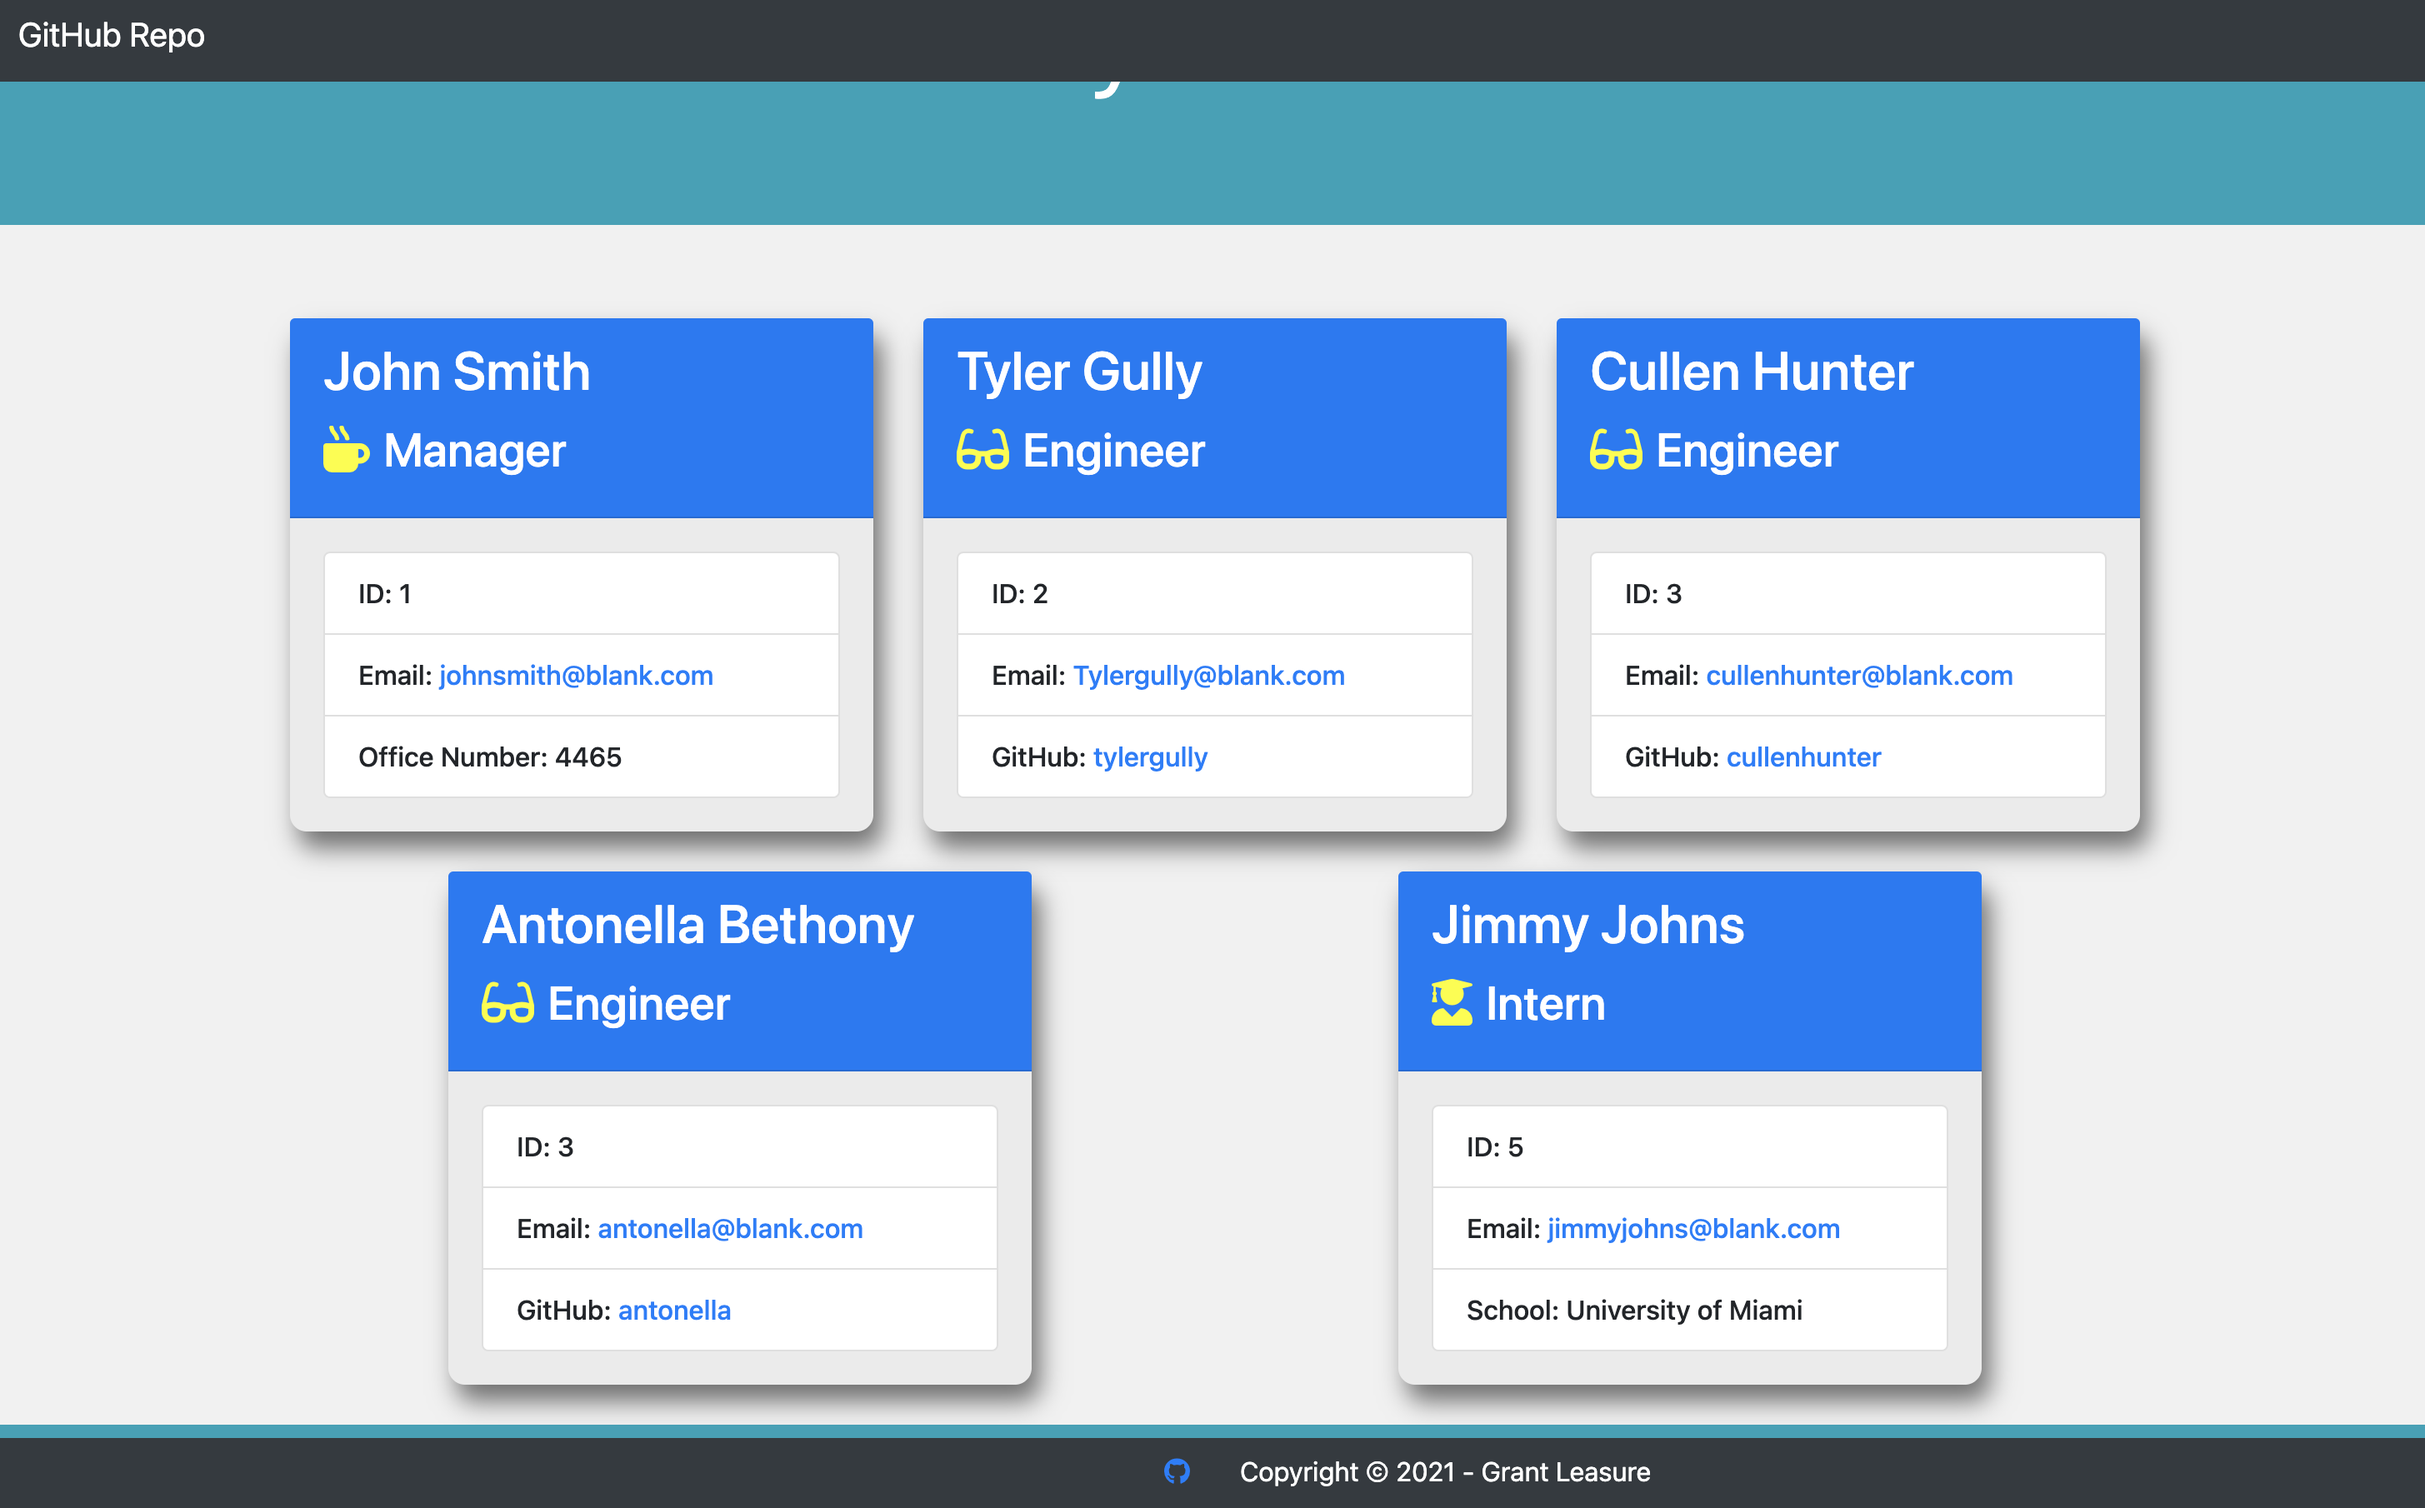
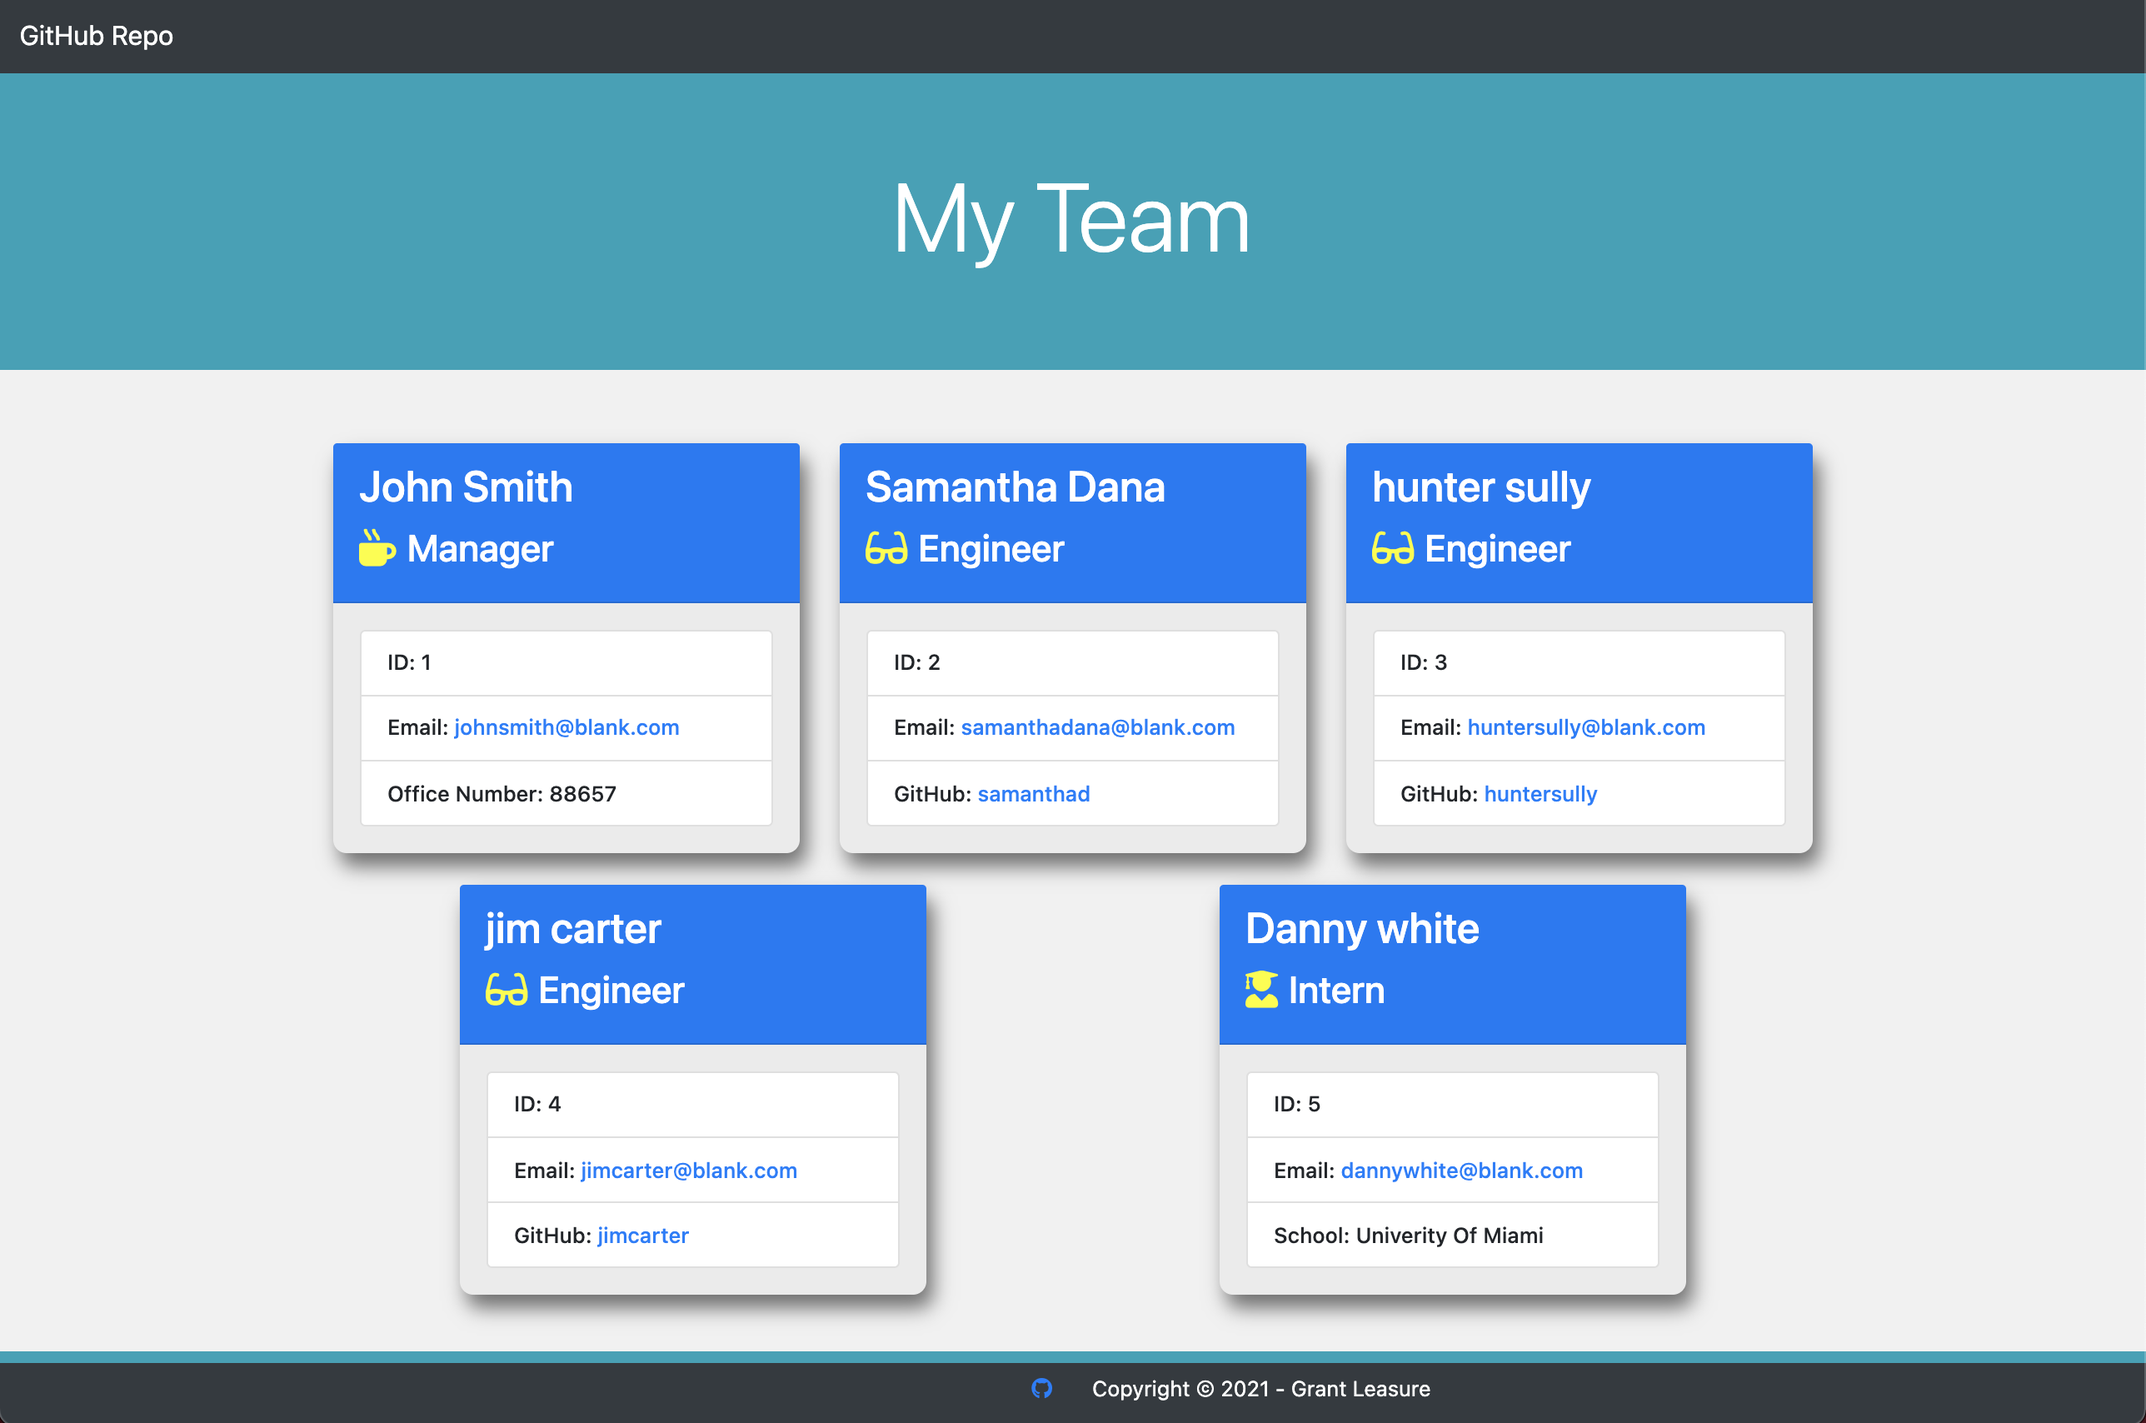
filmed video updated screenshot

diff --git a/dist/index.html b/dist/index.html
@@ -58,7 +58,7 @@
                         <ul class="list-group">
                             <li class="list-group-item">ID: 1</li>
                             <li class="list-group-item">Email: <a href="mailto:johnsmith@blank.com">johnsmith@blank.com</a></li>
-                            <li class="list-group-item">Office Number: 4465</li>
+                            <li class="list-group-item">Office Number: 88657</li>
                         </ul>
                     </div>
                 </div>
@@ -68,14 +68,14 @@
             <div class="col d-sm-flex justify-content-center">
                 <div class="card employee-card mt-4">
                     <div class="card-header">
-                        <h2 class="card-title">Tyler Gully</h2>
+                        <h2 class="card-title">Samantha Dana</h2>
                         <h3 class="card-title"><i class="fas fa-glasses mr-2"></i>Engineer</h3>
                     </div>
                     <div class="card-body">
                         <ul class="list-group">
                             <li class="list-group-item">ID: 2</li>
-                            <li class="list-group-item">Email: <a href="mailto:Tylergully@blank.com">Tylergully@blank.com</a></li>
-                            <li class="list-group-item">GitHub: <a href="https://github.com/tylergully" target="_blank">tylergully</a></li>
+                            <li class="list-group-item">Email: <a href="mailto:samanthadana@blank.com">samanthadana@blank.com</a></li>
+                            <li class="list-group-item">GitHub: <a href="https://github.com/samanthad" target="_blank">samanthad</a></li>
                         </ul>
                     </div>
                 </div>
@@ -85,14 +85,14 @@
             <div class="col d-sm-flex justify-content-center">
                 <div class="card employee-card mt-4">
                     <div class="card-header">
-                        <h2 class="card-title">Cullen Hunter</h2>
+                        <h2 class="card-title">hunter sully</h2>
                         <h3 class="card-title"><i class="fas fa-glasses mr-2"></i>Engineer</h3>
                     </div>
                     <div class="card-body">
                         <ul class="list-group">
                             <li class="list-group-item">ID: 3</li>
-                            <li class="list-group-item">Email: <a href="mailto:cullenhunter@blank.com">cullenhunter@blank.com</a></li>
-                            <li class="list-group-item">GitHub: <a href="https://github.com/cullenhunter" target="_blank">cullenhunter</a></li>
+                            <li class="list-group-item">Email: <a href="mailto:huntersully@blank.com">huntersully@blank.com</a></li>
+                            <li class="list-group-item">GitHub: <a href="https://github.com/huntersully" target="_blank">huntersully</a></li>
                         </ul>
                     </div>
                 </div>
@@ -102,14 +102,14 @@
             <div class="col d-sm-flex justify-content-center">
                 <div class="card employee-card mt-4">
                     <div class="card-header">
-                        <h2 class="card-title">Antonella Bethony</h2>
+                        <h2 class="card-title">jim carter</h2>
                         <h3 class="card-title"><i class="fas fa-glasses mr-2"></i>Engineer</h3>
                     </div>
                     <div class="card-body">
                         <ul class="list-group">
-                            <li class="list-group-item">ID: 3</li>
-                            <li class="list-group-item">Email: <a href="mailto:antonella@blank.com">antonella@blank.com</a></li>
-                            <li class="list-group-item">GitHub: <a href="https://github.com/antonella" target="_blank">antonella</a></li>
+                            <li class="list-group-item">ID: 4</li>
+                            <li class="list-group-item">Email: <a href="mailto:jimcarter@blank.com">jimcarter@blank.com</a></li>
+                            <li class="list-group-item">GitHub: <a href="https://github.com/jimcarter" target="_blank">jimcarter</a></li>
                         </ul>
                     </div>
                 </div>
@@ -119,14 +119,14 @@
             <div class="col d-sm-flex justify-content-center">
                 <div class="card employee-card mt-4">
                     <div class="card-header">
-                        <h2 class="card-title">Jimmy Johns</h2>
+                        <h2 class="card-title">Danny white</h2>
                         <h3 class="card-title"><i class="fas fa-user-graduate mr-2"></i>Intern</h3>
                     </div>
                     <div class="card-body">
                         <ul class="list-group">
                             <li class="list-group-item">ID: 5</li>
-                            <li class="list-group-item">Email: <a href="mailto:jimmyjohns@blank.com">jimmyjohns@blank.com</a></li>
-                            <li class="list-group-item">School: University of Miami</li>
+                            <li class="list-group-item">Email: <a href="mailto:dannywhite@blank.com">dannywhite@blank.com</a></li>
+                            <li class="list-group-item">School: Univerity Of Miami</li>
                         </ul>
                     </div>
                 </div>
